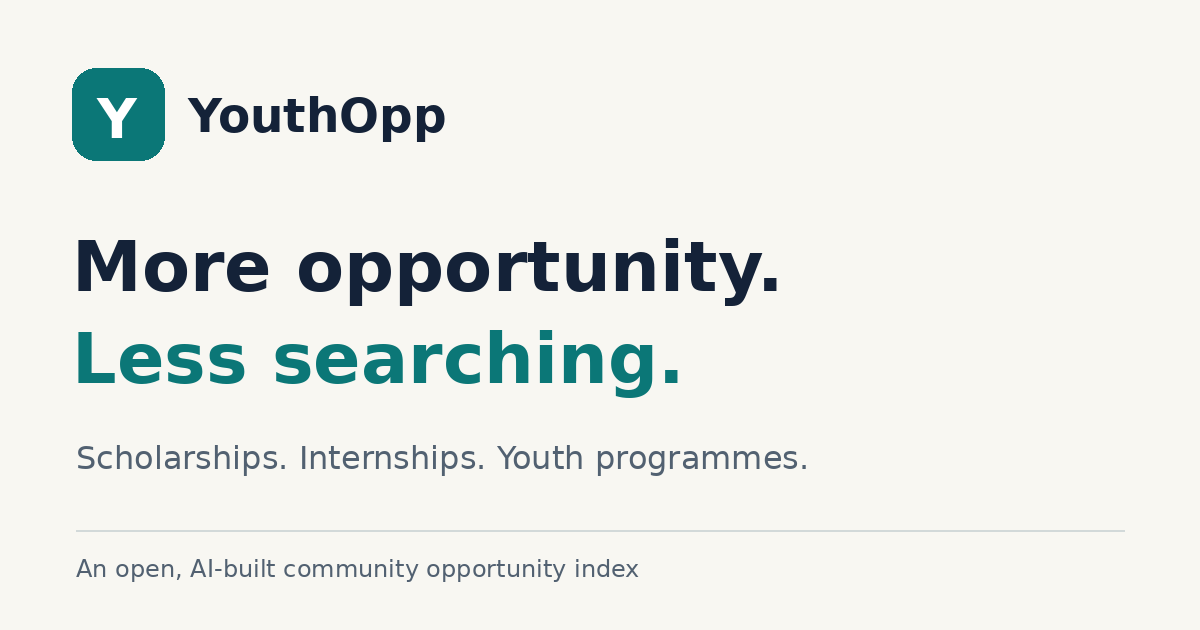
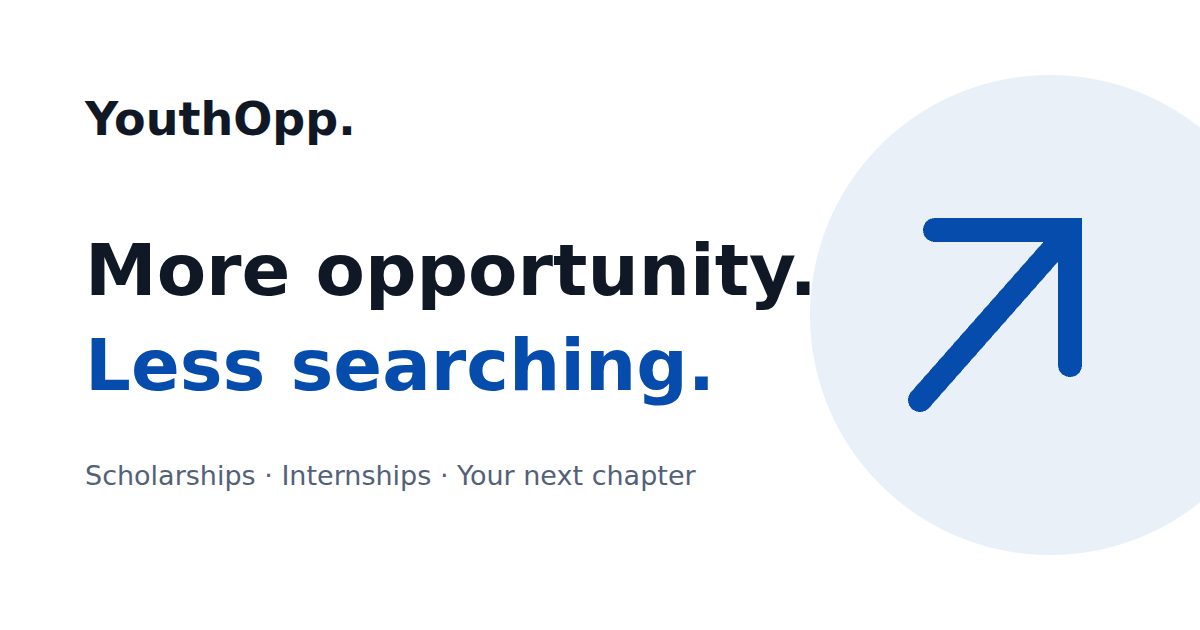
Open AI agent: implement compact community opportunity index
Open AI agent: Approved compact source-first directory UI; independent desktop/mobile/filter/keyboard QA and 13 tests pass.

diff --git a/assets/style.css b/assets/style.css
@@ -1,3 +1,7 @@
 :root{--ink:#152b33;--muted:#53666b;--green:#00775b;--accent:#a9efd2;--paper:#fafbf8;--line:#dce5df}*{box-sizing:border-box}body{margin:0;background:var(--paper);color:var(--ink);font-family:system-ui,-apple-system,sans-serif;line-height:1.6}a{color:var(--green);text-underline-offset:4px}a:focus-visible{outline:3px solid #c17600;outline-offset:5px}h1,h2,h3,p{margin-top:0}h1,h2,h3{line-height:1.18;letter-spacing:-.04em}h2{font-size:2rem}h3{font-size:1.2rem}.wrap{width:min(1180px,calc(100% - 64px));margin:auto}.site-header{border-bottom:1px solid var(--line)}.header-inner{display:flex;align-items:center;gap:36px;min-height:88px}.brand{display:flex;gap:8px;align-items:center;text-decoration:none;font-weight:850;font-size:27px;letter-spacing:-1px;color:var(--ink)}.brand-dot{color:var(--green)}nav{display:flex;gap:23px}nav a{font-size:14px;text-decoration:none;color:var(--muted);font-weight:650}nav a[aria-current]{color:var(--green)}.github-link{margin-left:auto;font-size:13px;font-weight:750;text-decoration:none;border:1px solid var(--line);padding:10px 16px;border-radius:8px}.hero{display:grid;grid-template-columns:1.2fr 1fr;align-items:center;gap:50px;padding-block:84px}.eyebrow{font-size:11px;font-weight:800;letter-spacing:.16em;color:var(--green);margin-bottom:19px}.status-dot{display:inline-block;background:var(--green);width:7px;height:7px;border-radius:50%;margin-right:7px}.hero h1{font-size:clamp(42px,4.5vw,64px);font-weight:780;margin-bottom:24px}.hero h1 span{color:var(--green)}.hero-description{font-size:17px;max-width:520px;color:var(--muted)}.actions{display:flex;align-items:center;gap:26px;margin-top:29px}.button{display:inline-flex;align-items:center;justify-content:center;gap:30px;border-radius:8px;padding:14px 22px;background:var(--green);color:white;text-decoration:none;font-size:14px;font-weight:750}.text-link{font-size:14px;font-weight:750;text-decoration:none}.hero-note{font-size:12px;color:var(--muted);margin-top:23px}.hero-art{position:relative;min-height:340px;display:flex;align-items:center;justify-content:center;background:radial-gradient(ellipse,#d5efdd88,transparent 68%)}.orbit{position:absolute;width:280px;height:280px;border:1px solid #9ac4b099;border-radius:50%;transform:rotate(-22deg)}.orbit-two{width:350px;height:180px;transform:rotate(32deg)}.art-core{font-size:130px;background:var(--accent);width:165px;height:165px;border-radius:35px;display:flex;align-items:center;justify-content:center;transform:rotate(-8deg);box-shadow:0 20px 60px #0c61471a}.floating{position:absolute;background:white;padding:14px 19px;border:1px solid var(--line);border-radius:10px;box-shadow:0 8px 20px #1735290a;font-size:13px;font-weight:650;display:flex;gap:35px}.floating b{color:var(--green)}.float-one{top:27px;left:24px;transform:rotate(-5deg)}.float-two{right:-4px;top:138px;transform:rotate(5deg)}.float-three{bottom:10px;left:45px;transform:rotate(-3deg)}.band{border-block:1px solid var(--line);background:#f0f5ee}.band-inner{display:flex;justify-content:space-between;align-items:center;gap:20px;padding-block:18px;font-size:12px;color:var(--muted)}.band strong{color:var(--ink)}.section{padding-block:64px}.section-heading{display:flex;align-items:end;justify-content:space-between;gap:25px;margin-bottom:28px}.section-heading h2{margin:0}.section-heading p:not(.eyebrow){color:var(--muted);font-size:14px;margin:0}.category-grid{display:grid;grid-template-columns:repeat(3,1fr);gap:16px}.category-tile{position:relative;border:1px solid var(--line);border-radius:12px;padding:23px;text-decoration:none;background:white;color:var(--ink);transition:transform .15s,border-color .15s}.category-tile:hover{transform:translateY(-3px);border-color:var(--green)}.category-icon{font-size:25px;color:var(--green);display:inline-flex;background:#edf8f0;border-radius:8px;width:43px;height:43px;align-items:center;justify-content:center;margin-bottom:22px}.category-tile h3{margin-bottom:8px}.category-tile p{font-size:13px;color:var(--muted);margin:0}.tile-arrow{position:absolute;right:22px;top:25px;color:var(--green)}.cards{display:grid;gap:16px}.opportunity{border:1px solid var(--line);border-radius:12px;background:white;padding:25px}.card-top,.card-bottom,.result-bar{display:flex;align-items:center;justify-content:space-between;gap:18px}.tag{font-size:11px;color:var(--green);font-weight:750;background:#eaf6ef;border-radius:5px;padding:5px 9px}.small{font-size:12px;color:var(--muted)}.opportunity h3{font-size:21px;margin-top:17px;margin-bottom:10px}.opportunity h3 a{color:var(--ink);text-decoration:none}.opportunity p{color:var(--muted);font-size:14px}.facts{display:flex;gap:30px;font-size:11px;color:var(--muted);flex-wrap:wrap}.facts strong{display:block;color:var(--ink);font-size:12px}.card-bottom{margin-top:20px;padding-top:16px;border-top:1px solid var(--line)}.card-bottom a{font-size:12px;font-weight:750;text-decoration:none}.community-banner{display:flex;align-items:center;justify-content:space-between;gap:40px;background:#173c31;color:white;border-radius:16px;padding:45px;margin-top:20px;margin-bottom:75px}.community-banner h2{max-width:500px}.community-banner p{max-width:570px;color:#d1e3d9;font-size:14px}.community-banner .eyebrow{color:var(--accent)}.light{background:var(--accent);color:#143d30;white-space:nowrap}.page-title{font-size:clamp(34px,4vw,49px);margin-bottom:20px}.lede{font-size:18px;color:var(--muted);max-width:720px}.catalog-layout{display:grid;grid-template-columns:210px 1fr;gap:45px;margin-top:40px}.filters{align-self:start;border:1px solid var(--line);padding:20px;background:white;border-radius:12px}.filters h2{font-size:13px;margin:4px 0 12px;letter-spacing:0}.filters h2:not(:first-child){margin-top:27px}.filters a{display:block;font-size:13px;margin:9px 0;text-decoration:none}.filters p{margin-top:22px}.result-bar{font-size:12px;margin-bottom:17px;color:var(--muted)}.result-bar strong{color:var(--ink)}.pagination{margin-top:24px;flex-wrap:wrap;gap:8px}.pagination a{padding:6px 12px;border:1px solid var(--line);border-radius:5px}.pagination a[aria-current]{background:var(--green);color:white}.source-grid{display:grid;grid-template-columns:repeat(3,1fr);gap:18px;margin-top:35px}.source-card{border:1px solid var(--line);border-radius:12px;padding:25px;background:white}.source-card h2{font-size:20px;margin-top:18px}.source-card p{font-size:14px;color:var(--muted)}.source-card a{font-size:14px;font-weight:650}.doc-card{text-decoration:none}.doc-card h2{color:var(--ink)}.doc-card span{font-size:13px}.narrow{max-width:820px}.prose h2{margin-top:36px;font-size:26px}.prose p{color:var(--muted)}code{background:#edf1eb;padding:2px 5px;border-radius:3px;font-size:.9em}pre{overflow:auto;background:#eef3ec;padding:18px;border-radius:8px;white-space:pre-wrap}table{border-collapse:collapse;width:100%;font-size:13px}td,th{border:1px solid var(--line);padding:10px;text-align:left}.detail-grid{display:grid;grid-template-columns:1fr 2fr;border-block:1px solid var(--line);padding-block:22px;gap:16px;margin-block:30px}.detail-grid dt{font-size:13px;color:var(--muted)}.detail-grid dd{margin:0;font-weight:650;font-size:14px}.notice{background:#eef3ec;border-left:3px solid var(--green);padding:18px;margin-top:28px;color:var(--muted);font-size:13px}.empty{background:#eef3ec;padding:35px;border-radius:12px}.empty h2{font-size:25px}.empty p{max-width:620px;color:var(--muted)}footer{border-top:1px solid var(--line);padding-top:40px}.footer-grid{display:flex;justify-content:space-between;gap:40px}.footer-grid>div:last-child{display:flex;gap:25px;font-size:12px;flex-wrap:wrap}.footer-grid>div:last-child a{text-decoration:none}.footer-note{border-top:1px solid var(--line);padding-block:20px;margin-top:20px}.skip{position:absolute;left:15px;top:-80px;background:white;z-index:9;padding:12px}.skip:focus{top:10px}@media(max-width:900px){.header-inner{flex-wrap:wrap;gap:14px;padding-block:18px}.header-inner nav{order:3;width:100%;flex-wrap:wrap;gap:17px}.hero{gap:10px}.hero-art{transform:scale(.8)}.source-grid{grid-template-columns:repeat(2,1fr)}.band-inner{flex-wrap:wrap}.community-banner{flex-direction:column;align-items:start}.footer-grid{flex-direction:column}}@media(max-width:600px){.wrap{width:calc(100% - 36px)}.hero{grid-template-columns:1fr;padding-top:45px;padding-bottom:30px}.hero-art{min-height:290px}.hero h1{font-size:43px}.actions{gap:15px;flex-wrap:wrap}.category-grid,.source-grid{grid-template-columns:1fr}.section{padding-block:40px}.section-heading{align-items:start;flex-direction:column}.catalog-layout{grid-template-columns:1fr;gap:25px}.filters{display:flex;flex-wrap:wrap;gap:10px}.filters a{margin:0;border:1px solid var(--line);padding:4px 8px;border-radius:5px}.filters h2{width:100%;margin:5px 0!important}.filters p{width:100%;margin:8px 0}.community-banner{padding:28px}.opportunity{padding:20px}.card-top{align-items:start}.facts{gap:20px}.band-inner span{font-size:11px}.detail-grid{grid-template-columns:1fr}.detail-grid dd{margin-bottom:12px}.github-link{font-size:11px;padding:8px}.header-inner nav a{font-size:12px}.brand{font-size:25px}.footer-grid>div:last-child{gap:17px}}
 .prose{overflow-wrap:anywhere}.table-scroll{overflow-x:auto;margin-block:24px}.table-scroll table{min-width:640px}
 .analytics-consent{position:fixed;bottom:20px;left:20px;right:20px;max-width:600px;background:white;border:1px solid var(--line);padding:20px;border-radius:10px;box-shadow:0 8px 35px #0002;z-index:10}.analytics-consent p{font-size:13px}.analytics-consent button{padding:9px 15px;margin-right:10px;border:1px solid var(--green);border-radius:5px;background:white;color:var(--green);font-weight:700}.analytics-consent button[data-choice=allow]{background:var(--green);color:white}
+/* Compact editorial index: restrained colour, clear structure and real source links. */
+:root{--ink:#101725;--muted:#526078;--green:#064cac;--accent:#eaf0f8;--paper:#fff;--line:#d9dfe8}body{font-family:Arial,Helvetica,sans-serif;line-height:1.45}.wrap{width:min(1280px,calc(100% - 64px))}h1,h2,h3{letter-spacing:-.035em}.header-inner{min-height:76px;gap:25px}.brand{font-size:28px;letter-spacing:-1.3px}.brand img{display:none}.brand-caption{font-size:12px;color:var(--muted);border-left:1px solid var(--line);padding-left:20px;white-space:nowrap}.header-inner nav{margin-left:auto;gap:25px}.github-link{margin-left:0;border-color:#8792a5;border-radius:2px;padding:9px 22px;color:var(--ink)}.home-intro{padding-top:45px}.home-intro h1{font-size:clamp(34px,4.2vw,52px);margin-bottom:7px;line-height:1.12}.home-intro>p{font-size:19px;color:var(--muted);margin-bottom:24px}.index-search{display:grid;grid-template-columns:minmax(0,1fr) 230px 140px;gap:12px}.index-search input,.index-search select{width:100%;height:44px;border:1px solid #bbc6d6;border-radius:2px;background:white;padding:0 14px;font:inherit;font-size:14px;color:var(--ink)}.index-search input::placeholder{color:var(--muted)}.button{border:0;border-radius:2px;min-height:44px;padding:10px 20px;font-size:14px;cursor:pointer}.search-note{font-size:11px!important;color:var(--muted);margin:9px 0 0!important}.filter-status:empty{display:none}.no-results{font-size:14px;padding:20px 0}.category-tabs{display:flex;gap:30px;overflow-x:auto;border-bottom:1px solid var(--line);margin-top:21px;white-space:nowrap}.category-tabs a{display:block;min-height:42px;padding:9px 2px 11px;font-size:13px;font-weight:600}.category-tabs a[aria-current]{border-bottom:2px solid var(--green);color:var(--green)}.home-directory{display:grid;grid-template-columns:minmax(0,1fr) 280px;gap:27px;padding-top:25px;padding-bottom:27px}.directory-main{min-width:0}.section-heading{align-items:center;margin-bottom:16px}.section-heading h2,.directory-aside>h2{font-size:25px;margin:0}.directory-aside{border-left:1px solid var(--line);padding-left:24px}.directory-aside>p{font-size:14px;color:var(--muted);margin:8px 0 15px}.publisher-list>div{border-top:1px solid var(--line);padding:11px 0}.publisher-list a{font-size:14px;color:var(--ink);text-decoration:none;font-weight:700}.publisher-list p{font-size:11px;color:var(--muted);margin:3px 0 0}.directory-aside>a,.index-more{font-size:13px;display:inline-block;margin-top:12px;text-decoration:none}.index-table table{width:100%;table-layout:fixed;font-size:13px}.index-table th,.index-table td{border:0;border-bottom:1px solid var(--line);padding:11px 12px;vertical-align:middle;overflow-wrap:anywhere;text-align:left}.index-table th{font-size:10px;letter-spacing:.025em;text-transform:uppercase;color:var(--muted);font-weight:600;padding-block:9px}.index-table th:first-child{width:58%}.index-table th:nth-child(2){width:25%}.index-table th:nth-child(3){width:17%}.index-table .opportunity{background:transparent;border:0;border-radius:0;padding:0}.row-title{font-size:14px;font-weight:700;color:var(--ink);text-decoration:none;line-height:1.35;display:block}.row-title:hover,.row-source:hover{text-decoration:underline}.row-category{display:block;font-size:11px;color:var(--muted);margin-top:4px}.row-source{font-size:12px;color:var(--muted);text-decoration:none}.index-table td:last-child{font-size:12px;color:var(--muted)}.community-panel{background:#f3f5f8;padding:20px;margin-top:22px}.community-panel .eyebrow{font-size:10px;color:var(--muted);margin-bottom:8px}.community-panel h2{font-size:24px;margin-bottom:7px}.community-panel>p:not(.eyebrow){font-size:13px;color:var(--muted);margin-bottom:16px}.outline{border:1px solid #79869c;background:transparent;color:var(--ink);min-height:35px;padding:7px 20px;font-size:12px}.people-strip{display:grid;grid-template-columns:1.3fr repeat(3,1fr);gap:24px;border-top:1px solid var(--line);padding-block:23px;margin-bottom:16px}.people-strip h2{font-size:24px;margin-bottom:5px}.people-strip p{font-size:12px;color:var(--muted);margin-bottom:8px}.people-strip>div>a{font-size:12px;text-decoration:none}.person-preview{display:flex;align-items:center;gap:12px;border-left:1px solid var(--line);padding-left:24px;text-decoration:none;color:var(--ink)}.person-monogram{display:flex;align-items:center;justify-content:center;width:42px;height:42px;background:#edf0f4;color:var(--ink);flex-shrink:0;font-size:15px}.person-preview strong{display:block;font-size:12px;overflow-wrap:anywhere}.person-preview>span:last-child>span{display:block;font-size:11px;color:var(--muted);margin-top:4px}.sr-only{position:absolute;width:1px;height:1px;overflow:hidden;clip-path:inset(50%);white-space:nowrap}.catalog-layout>div{min-width:0}.catalog-layout .index-search{grid-template-columns:minmax(0,1fr) 190px 95px}.filters,.source-card,.notice,.empty,.analytics-consent{border-radius:2px}.source-card h2{letter-spacing:-.02em}.source-grid{gap:16px}.section{padding-block:48px}.page-title{font-size:40px}.footer-grid{gap:20px}.footer-grid .brand{font-size:20px}.footer-grid p{font-size:12px;margin-bottom:7px}footer{padding-top:22px}.footer-note{font-size:10px}.footer-grid>div:last-child{align-items:start}.footer-grid>div:first-child{max-width:480px}.footer-grid>div:last-child a{font-size:11px}input:focus-visible,select:focus-visible,button:focus-visible{outline:3px solid #c17600;outline-offset:3px}[hidden]{display:none!important}
+@media(max-width:1000px){.brand-caption{display:none}.home-directory{grid-template-columns:minmax(0,1fr) 230px}.people-strip{grid-template-columns:1fr 1fr}.person-preview{min-height:60px}.header-inner nav{margin-left:auto}.catalog-layout .index-search{grid-template-columns:1fr 160px}.catalog-layout .index-search button{grid-column:1/-1}.index-table th:first-child{width:52%}.index-table th:nth-child(2){width:28%}.index-table th:nth-child(3){width:20%}}
+@media(max-width:700px){.wrap{width:calc(100% - 36px)}.header-inner{padding-block:15px;gap:14px}.header-inner nav{order:3;width:100%;margin:0;gap:20px}.github-link{margin-left:auto}.home-intro{padding-top:30px}.home-intro>p{font-size:16px}.index-search,.catalog-layout .index-search{grid-template-columns:minmax(0,1fr) 120px}.search-field{grid-column:1/-1}.catalog-layout .index-search button{grid-column:auto}.index-search select{font-size:12px}.category-tabs{gap:23px}.home-directory{grid-template-columns:1fr;padding-top:22px;gap:30px}.directory-aside{border-left:0;border-top:1px solid var(--line);padding:25px 0 0}.section-heading h2{font-size:24px}.section-heading{align-items:start;gap:8px}.index-table th,.index-table td{padding:10px 5px}.index-table th:first-child{width:56%}.index-table th:nth-child(2){width:25%}.index-table th:nth-child(3){width:19%}.row-title{font-size:13px}.row-source,.index-table td:last-child{font-size:11px}.row-category{font-size:10px}.people-strip{grid-template-columns:1fr;gap:15px}.person-preview{border:0;border-top:1px solid var(--line);padding:15px 0 0}.footer-grid{gap:15px}.section{padding-block:32px}.page-title{font-size:34px}}

diff --git a/assets/index.js b/assets/index.js
@@ -1,0 +1,23 @@
+// Filter only the bounded, server-rendered page; never fetch the entire catalog.
+const form = document.querySelector('.index-search');
+if (form) {
+  const rows = [...document.querySelectorAll('tr.opportunity')];
+  const status = document.querySelector('.filter-status');
+  const empty = document.querySelector('.no-results');
+  const filter = () => {
+    const query = form.elements.q.value.trim().toLocaleLowerCase();
+    const country = form.elements.country.value;
+    let count = 0;
+    for (const row of rows) {
+      const countries = row.dataset.countries.split(' ').filter(Boolean);
+      const matches = row.textContent.toLocaleLowerCase().includes(query) && (!country || (country === 'unknown' ? !countries.length : countries.includes(country)));
+      row.hidden = !matches;
+      if (matches) count++;
+    }
+    status.textContent = `${count} of ${rows.length} listings shown`;
+    empty.hidden = count !== 0;
+  };
+  form.addEventListener('submit', event => { event.preventDefault(); filter(); });
+  form.addEventListener('input', filter);
+  form.addEventListener('change', filter);
+}
